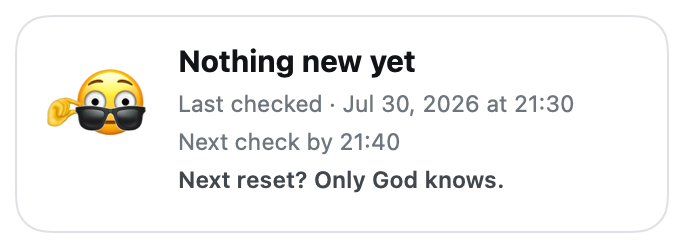
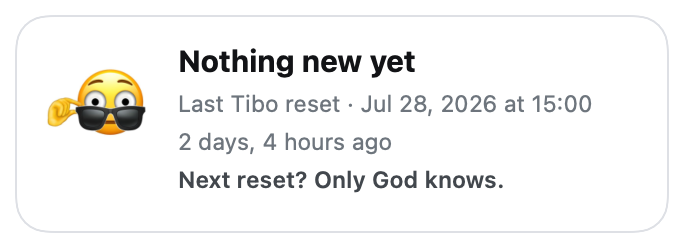
Show time since Tibo's last reset

Changed region(s): [[0.3377, 0.3669, 0.8904, 0.4516], [0.2456, 0.5363, 0.5833, 0.621]]

diff --git a/Sources/TiboResetCoin/CheckStatusWindowController.swift b/Sources/TiboResetCoin/CheckStatusWindowController.swift
@@ -6,7 +6,7 @@ final class CheckStatusWindowController {
     private var panel: NSPanel?
     private var autoDismissTask: Task<Void, Never>?
 
-    func show(checkedAt: Date?, on screen: NSScreen?) {
+    func show(lastResetAt: Date?, on screen: NSScreen?) {
         close(animated: false)
 
         let panel = NSPanel(
@@ -27,7 +27,7 @@ final class CheckStatusWindowController {
         panel.hidesOnDeactivate = false
         panel.contentView = NSHostingView(
             rootView: CheckStatusView(
-                checkedAt: checkedAt,
+                lastResetAt: lastResetAt,
                 now: Date()
             )
         )
@@ -90,7 +90,7 @@ final class CheckStatusWindowController {
 }
 
 struct CheckStatusView: View {
-    let checkedAt: Date?
+    let lastResetAt: Date?
     let now: Date
 
     var body: some View {
@@ -106,13 +106,13 @@ struct CheckStatusView: View {
                         Color(red: 0.07, green: 0.075, blue: 0.085)
                     )
 
-                Text(lastCheckedText)
+                Text(lastResetText)
                     .font(.system(size: 11.5, weight: .regular))
                     .foregroundStyle(
                         Color(red: 0.43, green: 0.46, blue: 0.49)
                     )
 
-                Text(nextCheckText)
+                Text(elapsedText)
                     .font(.system(size: 11.5, weight: .regular))
                     .foregroundStyle(
                         Color(red: 0.43, green: 0.46, blue: 0.49)
@@ -144,30 +144,70 @@ struct CheckStatusView: View {
         .padding(8)
     }
 
-    private var lastCheckedText: String {
-        guard let checkedAt else {
-            return "Last check time unavailable"
+    private var lastResetText: String {
+        guard let lastResetAt else {
+            return "No Tibo reset recorded yet"
         }
-        let formatted = checkedAt.formatted(
+        let formatted = lastResetAt.formatted(
             date: .abbreviated,
             time: .shortened
         )
-        return "Last checked · \(formatted)"
+        return "Last Tibo reset · \(formatted)"
     }
 
-    private var nextCheckText: String {
-        guard let checkedAt else {
-            return "Next check coming shortly"
+    private var elapsedText: String {
+        guard let lastResetAt else {
+            return "Waiting for the first confirmed reset"
         }
-        let nextCheck = checkedAt.addingTimeInterval(10 * 60)
-        guard nextCheck > now else {
-            return "Next check coming shortly"
-        }
-        let formatted = nextCheck.formatted(
-            date: .omitted,
-            time: .shortened
+        return CheckStatusCopy.elapsed(since: lastResetAt, now: now)
+    }
+}
+
+enum CheckStatusCopy {
+    static func elapsed(since resetDate: Date, now: Date) -> String {
+        let totalMinutes = max(
+            0,
+            Int(now.timeIntervalSince(resetDate) / 60)
         )
-        return "Next check by \(formatted)"
+        guard totalMinutes > 0 else {
+            return "Less than a minute ago"
+        }
+
+        let days = totalMinutes / (24 * 60)
+        let hours = (totalMinutes % (24 * 60)) / 60
+        let minutes = totalMinutes % 60
+
+        if days > 0 {
+            return joined(
+                first: unit(days, singular: "day"),
+                second: hours > 0
+                    ? unit(hours, singular: "hour")
+                    : nil
+            )
+        }
+        if hours > 0 {
+            return joined(
+                first: unit(hours, singular: "hour"),
+                second: minutes > 0
+                    ? unit(minutes, singular: "minute")
+                    : nil
+            )
+        }
+        return "\(unit(minutes, singular: "minute")) ago"
+    }
+
+    private static func joined(
+        first: String,
+        second: String?
+    ) -> String {
+        [first, second]
+            .compactMap { $0 }
+            .joined(separator: ", ")
+            + " ago"
+    }
+
+    private static func unit(_ value: Int, singular: String) -> String {
+        "\(value) \(singular)\(value == 1 ? "" : "s")"
     }
 }
 

diff --git a/Tests/TiboResetCoinTests/ResetClassifierTests.swift b/Tests/TiboResetCoinTests/ResetClassifierTests.swift
@@ -99,6 +99,22 @@ func parsesCentralFeedTimestamp() {
 
 @Test
 @MainActor
+func formatsTimeSinceLastReset() throws {
+    let resetDate = try #require(
+        ResetFeedClient.date(from: "2026-07-28T08:00:00.000Z")
+    )
+    let now = try #require(
+        ResetFeedClient.date(from: "2026-07-30T12:15:00.000Z")
+    )
+
+    #expect(
+        CheckStatusCopy.elapsed(since: resetDate, now: now)
+            == "2 days, 4 hours ago"
+    )
+}
+
+@Test
+@MainActor
 func manualCheckShowsStatusOnlyWhenNothingIsNew() async throws {
     let configuration = URLSessionConfiguration.ephemeral
     configuration.protocolClasses = [StubURLProtocol.self]
@@ -112,6 +128,7 @@ func manualCheckShowsStatusOnlyWhenNothingIsNew() async throws {
       "version": 1,
       "source": "thsottiaux",
       "checkedAt": "2026-07-30T12:30:00.000Z",
+      "lastResetAt": "2026-07-28T08:00:00.000Z",
       "event": null
     }
     """.data(using: .utf8)!
@@ -125,14 +142,19 @@ func manualCheckShowsStatusOnlyWhenNothingIsNew() async throws {
         defaults: statusDefaults,
         client: client
     )
-    var statusCount = 0
+    var statusDate: Date?
     var alertCount = 0
-    statusMonitor.onCheckStatus = { _ in statusCount += 1 }
+    statusMonitor.onCheckStatus = { statusDate = $0 }
     statusMonitor.onAlert = { _ in alertCount += 1 }
 
     await statusMonitor.checkNow(showStatus: true)
 
-    #expect(statusCount == 1)
+    #expect(
+        statusDate
+            == ResetFeedClient.date(
+                from: "2026-07-28T08:00:00.000Z"
+            )
+    )
     #expect(alertCount == 0)
 
     StubURLProtocol.payload = """
@@ -140,6 +162,7 @@ func manualCheckShowsStatusOnlyWhenNothingIsNew() async throws {
       "version": 1,
       "source": "thsottiaux",
       "checkedAt": "2026-07-30T12:40:00.000Z",
+      "lastResetAt": "2026-07-30T12:39:00.000Z",
       "event": {
         "id": "new-reset",
         "signal": "confirmed",

diff --git a/Sources/TiboResetCoin/AppDelegate.swift b/Sources/TiboResetCoin/AppDelegate.swift
@@ -73,10 +73,10 @@ final class AppDelegate: NSObject, NSApplicationDelegate {
             )
             self.flashStatusIcon()
         }
-        monitor.onCheckStatus = { [weak self] checkedAt in
+        monitor.onCheckStatus = { [weak self] lastResetAt in
             guard let self, !self.alertWindow.isVisible else { return }
             self.checkStatusWindow.show(
-                checkedAt: checkedAt,
+                lastResetAt: lastResetAt,
                 on: self.statusItem.button?.window?.screen
             )
         }

diff --git a/Sources/TiboResetCoin/MonitorService.swift b/Sources/TiboResetCoin/MonitorService.swift
@@ -71,7 +71,9 @@ final class MonitorService {
             )
             state = .polling
             if showStatus && !didAlert {
-                onCheckStatus?(ResetFeedClient.date(from: snapshot.checkedAt))
+                onCheckStatus?(
+                    ResetFeedClient.date(from: snapshot.lastResetAt)
+                )
             }
         } catch {
             state = .offline(

diff --git a/Sources/TiboResetCoin/ResetFeedClient.swift b/Sources/TiboResetCoin/ResetFeedClient.swift
@@ -4,6 +4,7 @@ struct ResetFeedSnapshot: Decodable, Sendable {
     let version: Int
     let source: String
     let checkedAt: String?
+    let lastResetAt: String?
     let event: ResetFeedEvent?
 }
 

diff --git a/Windows/Program.cs b/Windows/Program.cs
@@ -124,7 +124,7 @@ internal sealed class TrayApplicationContext : ApplicationContext
                 throw new InvalidDataException("The central feed returned no data.");
             }
 
-            var checkedAt = ParseDate(snapshot.CheckedAt);
+            var lastResetAt = ParseDate(snapshot.LastResetAt);
             var didAlert = ProcessSnapshot(
                 snapshot,
                 seedIfNeeded && _isFirstCheck
@@ -135,7 +135,7 @@ internal sealed class TrayApplicationContext : ApplicationContext
                 && _resetAlert?.Visible != true
             )
             {
-                StatusPopupForm.ShowStatus(checkedAt);
+                StatusPopupForm.ShowStatus(lastResetAt);
             }
         }
         catch when (showStatus)
@@ -259,7 +259,7 @@ internal sealed class TrayApplicationContext : ApplicationContext
 
 internal sealed class StatusPopupForm : PopupForm
 {
-    private readonly DateTimeOffset? _checkedAt;
+    private readonly DateTimeOffset? _lastResetAt;
     private readonly bool _isUnavailable;
     private readonly Image _emoji = AssetLoader.LoadImage(
         "CheckStatusEmoji.jpg"
@@ -267,12 +267,12 @@ internal sealed class StatusPopupForm : PopupForm
     private readonly System.Windows.Forms.Timer _dismissTimer;
 
     private StatusPopupForm(
-        DateTimeOffset? checkedAt,
+        DateTimeOffset? lastResetAt,
         bool isUnavailable
     )
         : base(new Size(342, 124))
     {
-        _checkedAt = checkedAt;
+        _lastResetAt = lastResetAt;
         _isUnavailable = isUnavailable;
         _dismissTimer = new System.Windows.Forms.Timer
         {
@@ -282,9 +282,9 @@ internal sealed class StatusPopupForm : PopupForm
         Shown += (_, _) => _dismissTimer.Start();
     }
 
-    internal static void ShowStatus(DateTimeOffset? checkedAt)
+    internal static void ShowStatus(DateTimeOffset? lastResetAt)
     {
-        new StatusPopupForm(checkedAt, isUnavailable: false).ShowAtTray();
+        new StatusPopupForm(lastResetAt, isUnavailable: false).ShowAtTray();
     }
 
     internal static void ShowUnavailable()
@@ -367,14 +367,14 @@ internal sealed class StatusPopupForm : PopupForm
             19
         );
         graphics.DrawString(
-            LastCheckedText(),
+            LastResetText(),
             bodyFont,
             bodyBrush,
             102,
             47
         );
         graphics.DrawString(
-            NextCheckText(),
+            ElapsedText(),
             bodyFont,
             bodyBrush,
             102,
@@ -389,24 +389,58 @@ internal sealed class StatusPopupForm : PopupForm
         );
     }
 
-    private string LastCheckedText()
+    private string LastResetText()
     {
-        return _checkedAt is null
-            ? "Last check time unavailable"
-            : $"Last checked · {_checkedAt.Value.ToLocalTime():MMM d, yyyy HH:mm}";
+        return _lastResetAt is null
+            ? "No Tibo reset recorded yet"
+            : $"Last Tibo reset · {_lastResetAt.Value.ToLocalTime():MMM d, yyyy HH:mm}";
     }
 
-    private string NextCheckText()
+    private string ElapsedText()
     {
-        if (_checkedAt is null)
+        if (_lastResetAt is null)
         {
-            return "Next check coming shortly";
+            return "Waiting for the first confirmed reset";
         }
 
-        var next = _checkedAt.Value.ToLocalTime().AddMinutes(10);
-        return next <= DateTimeOffset.Now
-            ? "Next check coming shortly"
-            : $"Next check by {next:HH:mm}";
+        var elapsed = DateTimeOffset.Now - _lastResetAt.Value.ToLocalTime();
+        var totalMinutes = Math.Max(0, (int)elapsed.TotalMinutes);
+        if (totalMinutes == 0)
+        {
+            return "Less than a minute ago";
+        }
+
+        var days = totalMinutes / (24 * 60);
+        var hours = (totalMinutes % (24 * 60)) / 60;
+        var minutes = totalMinutes % 60;
+
+        if (days > 0)
+        {
+            return JoinElapsed(
+                Unit(days, "day"),
+                hours > 0 ? Unit(hours, "hour") : null
+            );
+        }
+        if (hours > 0)
+        {
+            return JoinElapsed(
+                Unit(hours, "hour"),
+                minutes > 0 ? Unit(minutes, "minute") : null
+            );
+        }
+        return $"{Unit(minutes, "minute")} ago";
+    }
+
+    private static string JoinElapsed(string first, string? second)
+    {
+        return second is null
+            ? $"{first} ago"
+            : $"{first}, {second} ago";
+    }
+
+    private static string Unit(int value, string singular)
+    {
+        return $"{value} {singular}{(value == 1 ? "" : "s")}";
     }
 }
 
@@ -687,6 +721,7 @@ internal sealed record FeedSnapshot(
     int Version,
     string Source,
     string? CheckedAt,
+    string? LastResetAt,
     FeedEvent? Event
 );
 

diff --git a/README.md b/README.md
@@ -36,14 +36,15 @@ appears, choose **More info → Run anyway**.
 - Alerts only when a post clearly confirms a completed ChatGPT or Codex
   allowance reset.
 - Shows a compact, silent red-button animation in the top-right corner.
-- Gives `Check now` a lightweight status card with the latest feed time.
+- Gives `Check now` a lightweight status card with the last confirmed reset.
 - Keeps the alert visible until you close it or open the original post on X.
 - Never ships the TwitterAPI.io key inside either desktop app.
 
 ## Check now, but cuter
 
-When there is nothing new, `Check now` shows the latest feed time in a small,
-quiet card. Only a newly detected reset gets the animated red-button alert.
+When there is nothing new, `Check now` shows Tibo's last confirmed reset time
+and how long ago it happened. Only a newly detected reset gets the animated
+red-button alert.
 
 <img src="https://raw.githubusercontent.com/Tiaivy/tibo-we-love-you/main/DesignPreview/check-now-status-v1.1.png" alt="Check now status card" width="342" />
 

diff --git a/Server/README.md b/Server/README.md
@@ -44,6 +44,6 @@ without sending an old alert. Public feed reads never call TwitterAPI.io.
 
 ## Endpoints
 
-- `GET /v1/reset/latest` — cached public snapshot for Mac clients
+- `GET /v1/reset/latest` — cached public snapshot, including `lastResetAt`
 - `GET /healthz` — last polling status
 - `POST /v1/admin/poll` — protected manual poll using `Authorization: Bearer …`
